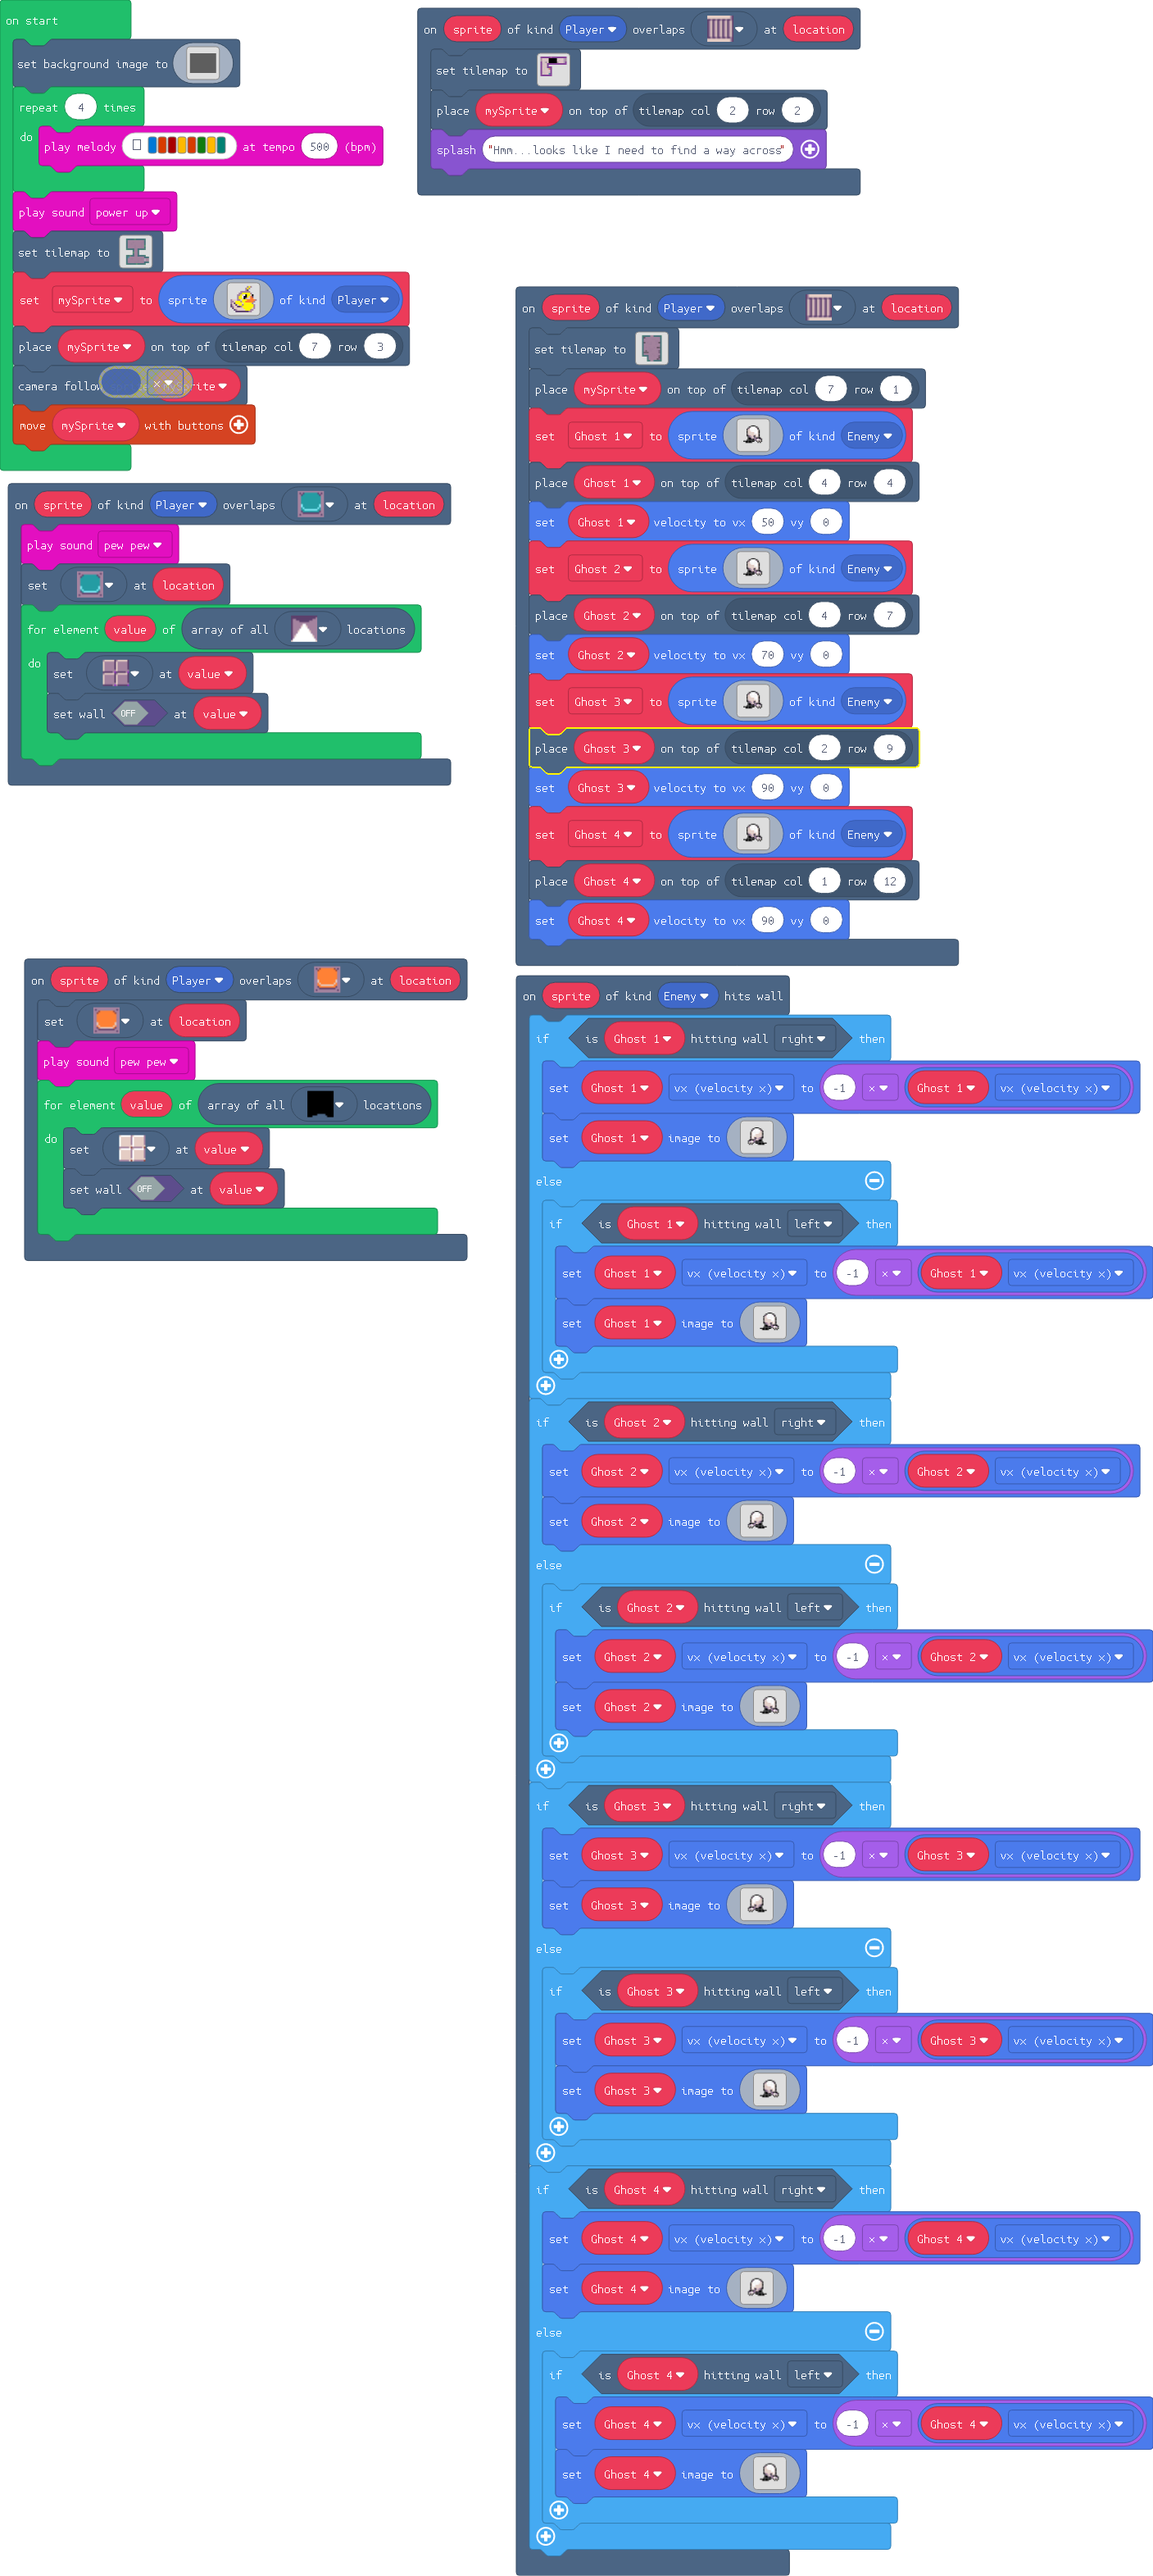
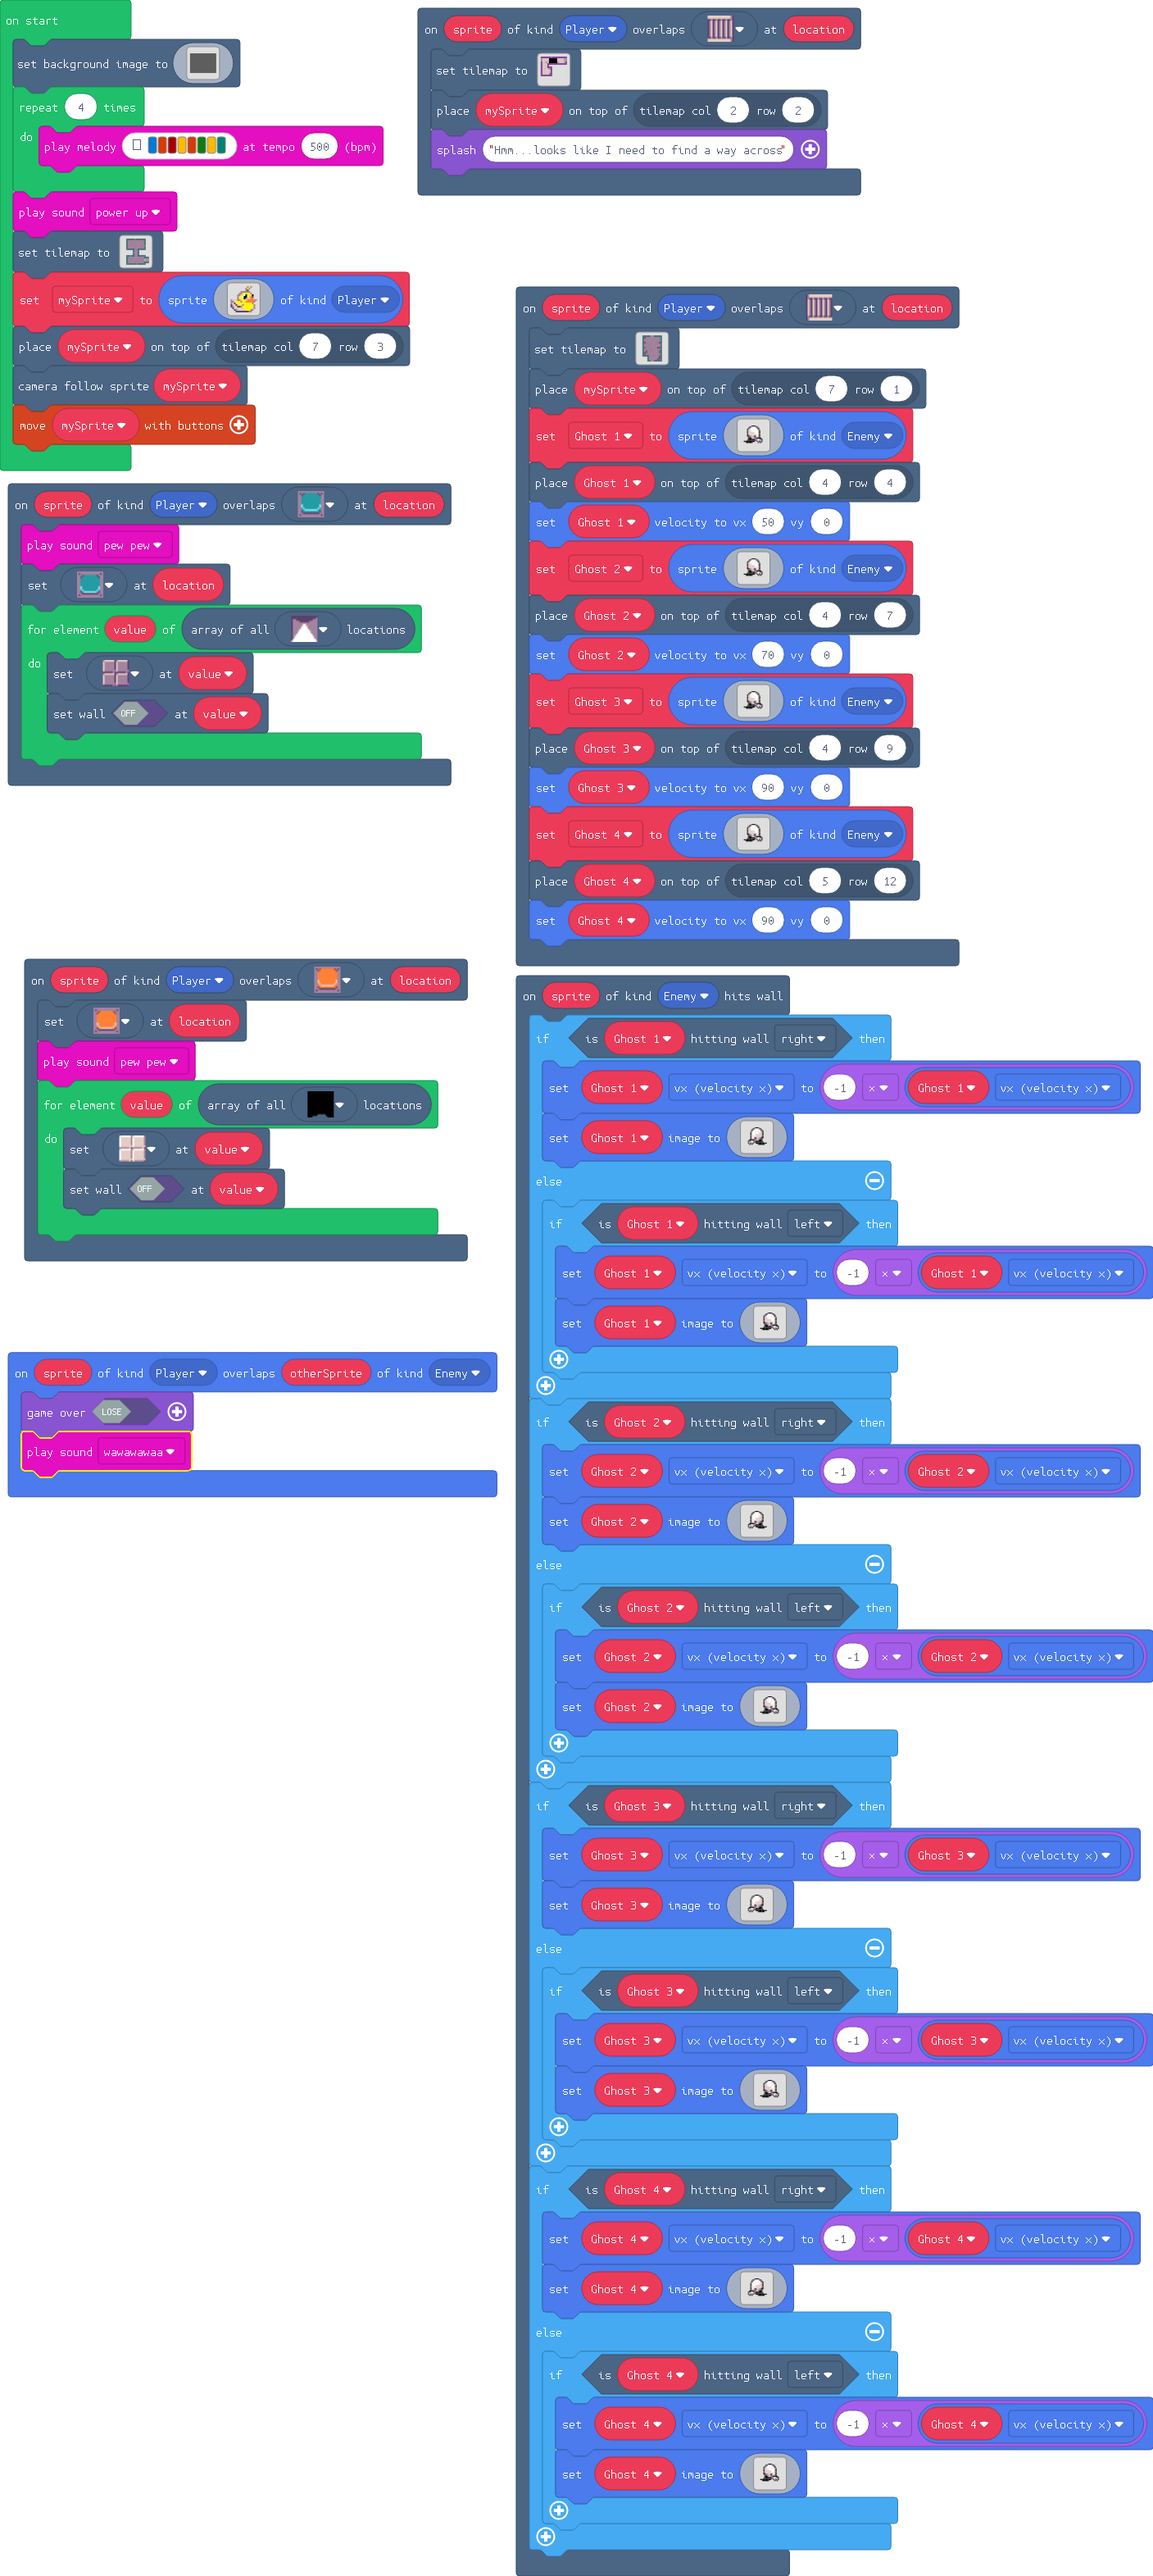
Fixed issues with enemies stuck, added a game over scene.

diff --git a/main.ts b/main.ts
@@ -94,7 +94,7 @@ scene.onOverlapTile(SpriteKind.Player, sprites.dungeon.stairWest, function (spri
 })
 scene.onOverlapTile(SpriteKind.Player, sprites.dungeon.stairEast, function (sprite, location) {
     tiles.setTilemap(tiles.createTilemap(
[2 lines of base64/hex data omitted]
             img`
 . . 2 2 2 2 2 2 2 2 2 2 2 2 . . 
 . . 2 2 . . . . . . . . . 2 . . 
@@ -103,17 +103,17 @@ scene.onOverlapTile(SpriteKind.Player, sprites.dungeon.stairEast, function (spri
 . . 2 2 . . . . . . . . 2 2 . . 
 . . 2 . . . . . . . . . . 2 . . 
 . . 2 . . . . . . . . . . 2 . . 
-. . 2 . . . . . . . . 2 2 2 . . 
+. . 2 2 . . . . . . . 2 2 2 . . 
 . . 2 . . . . . . . . . . 2 . . 
 . . 2 . 2 . . . . . . . 2 2 . . 
-. . 2 2 2 2 . . . . . . 2 2 . . 
-. . 2 . . . . . . . . . . 2 . . 
+. . 2 2 2 . . . . . . . 2 2 . . 
+. . 2 2 . . . . . . . . . 2 . . 
 . . 2 2 2 2 . . . . . . 2 2 . . 
 . . . . . 2 . . . . . . 2 2 . . 
 . . . . . 2 . . . . . 2 2 2 . . 
-. . . . . 2 2 2 2 2 2 2 2 2 . . 
+. . . . . 2 2 . . 2 2 2 2 2 . . 
 `,
-            [myTiles.tile0,myTiles.tile1,myTiles.tile2,sprites.dungeon.greenOuterNorthWest,sprites.dungeon.greenOuterNorth0,sprites.dungeon.greenOuterNorth1,sprites.dungeon.stairSouth,sprites.dungeon.greenOuterNorthEast,sprites.dungeon.greenOuterEast0,sprites.dungeon.greenOuterEast1,sprites.dungeon.greenOuterSouthWest,sprites.dungeon.greenOuterSouthEast,sprites.dungeon.greenOuterWest1,sprites.dungeon.greenInnerSouthWest,sprites.dungeon.greenOuterWest0,sprites.dungeon.greenOuterSouth0,sprites.dungeon.greenOuterSouth1,sprites.dungeon.stairNorth,sprites.dungeon.floorDark0,sprites.dungeon.floorDarkDiamond,sprites.dungeon.floorDark1,sprites.dungeon.floorDark3,sprites.dungeon.floorDark5,sprites.dungeon.floorMixed,sprites.dungeon.floorDark4,sprites.castle.rock0,sprites.castle.rock2,sprites.castle.rock1,sprites.builtin.oceanDepths0,sprites.dungeon.greenInnerNorthEast],
+            [myTiles.tile0,myTiles.tile1,myTiles.tile2,sprites.dungeon.greenOuterNorthWest,sprites.dungeon.greenOuterNorth0,sprites.dungeon.greenOuterNorth1,sprites.dungeon.stairSouth,sprites.dungeon.greenOuterNorthEast,sprites.dungeon.greenOuterEast0,sprites.dungeon.greenOuterEast1,sprites.dungeon.greenOuterSouthWest,sprites.dungeon.greenOuterSouthEast,sprites.dungeon.greenOuterWest1,sprites.dungeon.greenInnerSouthWest,sprites.dungeon.greenOuterWest0,sprites.dungeon.greenOuterSouth0,sprites.dungeon.greenOuterSouth1,sprites.dungeon.stairNorth,sprites.dungeon.floorDark0,sprites.dungeon.floorDarkDiamond,sprites.dungeon.floorDark1,sprites.dungeon.floorDark3,sprites.dungeon.floorDark5,sprites.dungeon.floorMixed,sprites.dungeon.floorDark4,sprites.castle.rock0,sprites.castle.rock2,sprites.castle.rock1,sprites.builtin.oceanDepths0,sprites.dungeon.greenInnerNorthEast,sprites.dungeon.stairWest,sprites.dungeon.darkGroundWest,sprites.dungeon.floorLight4],
             TileScale.Sixteen
         ))
     tiles.placeOnTile(mySprite, tiles.getTileLocation(7, 1))
@@ -199,7 +199,7 @@ scene.onOverlapTile(SpriteKind.Player, sprites.dungeon.stairEast, function (spri
 . . . . . . . . . . . . . . . . . . . . . . . . 
 . . . . . . . . . . . . . . . . . . . . . . . . 
 `, SpriteKind.Enemy)
-    tiles.placeOnTile(Ghost_3, tiles.getTileLocation(2, 9))
+    tiles.placeOnTile(Ghost_3, tiles.getTileLocation(4, 9))
     Ghost_3.setVelocity(90, 0)
     Ghost_4 = sprites.create(img`
 . . . . . . . . . . . . . . . . . . . . . . . . 
@@ -227,7 +227,7 @@ scene.onOverlapTile(SpriteKind.Player, sprites.dungeon.stairEast, function (spri
 . . . . . . . . . . . . . . . . . . . . . . . . 
 . . . . . . . . . . . . . . . . . . . . . . . . 
 `, SpriteKind.Enemy)
-    tiles.placeOnTile(Ghost_4, tiles.getTileLocation(1, 12))
+    tiles.placeOnTile(Ghost_4, tiles.getTileLocation(5, 12))
     Ghost_4.setVelocity(90, 0)
 })
 scene.onHitWall(SpriteKind.Enemy, function (sprite) {
@@ -467,6 +467,10 @@ scene.onHitWall(SpriteKind.Enemy, function (sprite) {
 `)
         }
     }
+})
+sprites.onOverlap(SpriteKind.Player, SpriteKind.Enemy, function (sprite, otherSprite) {
+    game.over(false)
+    music.wawawawaa.play()
 })
 scene.onOverlapTile(SpriteKind.Player, sprites.dungeon.buttonOrange, function (sprite, location) {
     tiles.setTileAt(location, sprites.dungeon.buttonOrangeDepressed)
